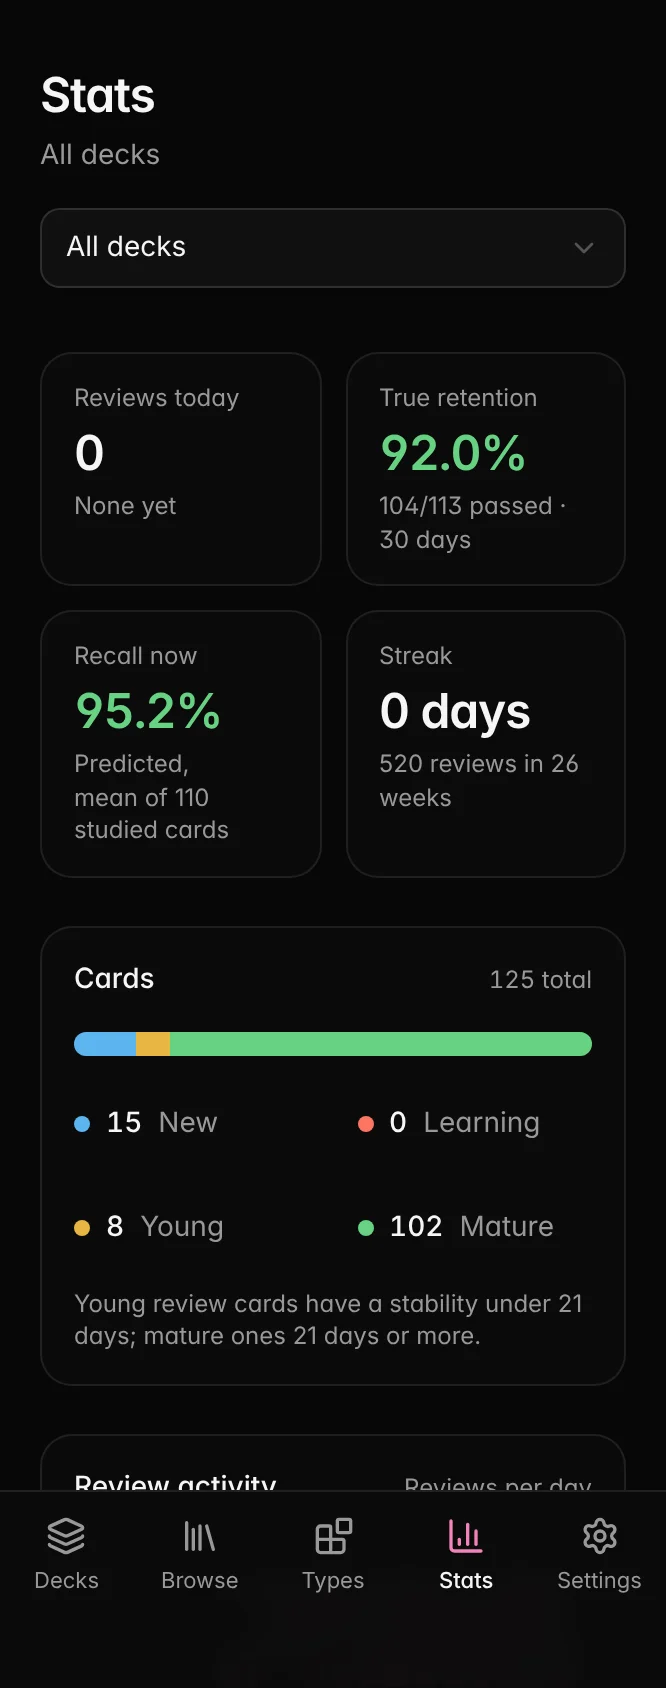
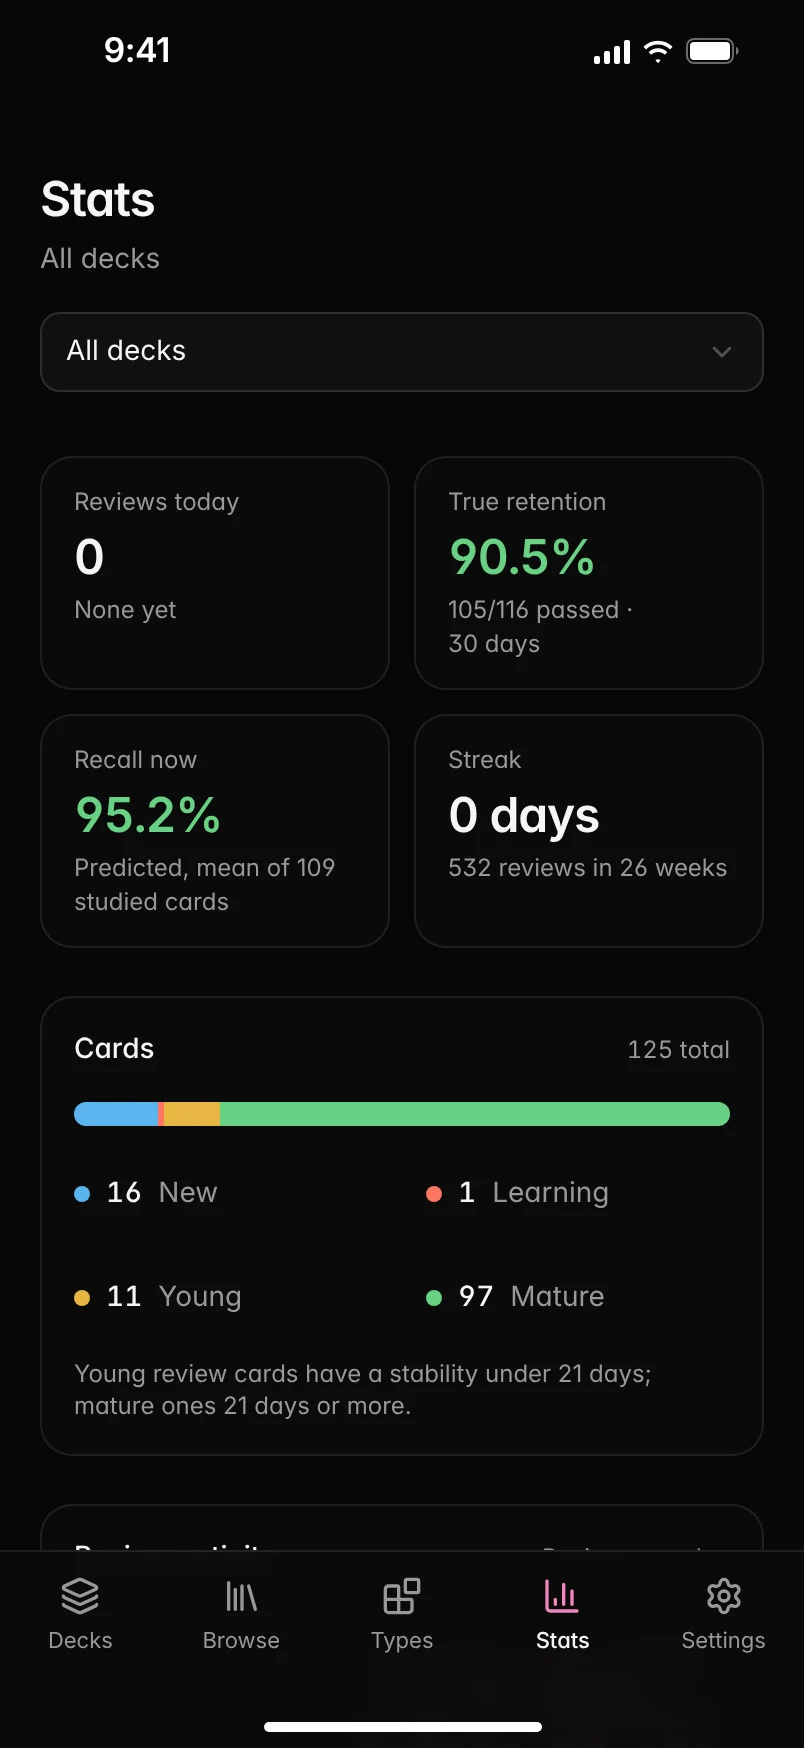
feat(site): phone mockups use Apple's iPhone 16 Pro bezel
Screens are captured at 402x874 with an iOS status bar and home indicator and sit in the bezel's real screen opening. Frame from Apple Design Resources; credit in site/src/assets/device/CREDITS.txt.

diff --git a/site/src/assets/site.css b/site/src/assets/site.css
@@ -661,3 +661,24 @@ h1, h2, h3 { margin: 0; letter-spacing: -0.025em; font-weight: 600; }
 .phone .screen img { width: 100%; height: auto; flex: none; object-fit: contain; }
 .phone.l .screen, .phone.r .screen { padding-top: 13%; }
 .phone .screen img { flex: 1; min-height: 0; height: 100%; object-fit: cover; object-position: top center; }
+
+/* ---------------------------------------------------------- phones: Apple's iPhone 16 Pro bezel over real screenshots */
+.phones { perspective: none; align-items: flex-end; gap: clamp(1.25rem, 4vw, 3.5rem); padding-bottom: 2.5rem; position: relative; }
+.phones::before { content: ""; position: absolute; left: 50%; bottom: 0.5rem; width: 70%; height: 3rem; translate: -50% 0; border-radius: 50%;
+  background: radial-gradient(closest-side, oklch(0 0 0 / 90%), transparent); filter: blur(12px); z-index: -1; }
+.phone, .phone.l, .phone.r, .phone.c { transform: none; padding: 0; background: none; box-shadow: none; border-radius: 0; }
+.phone::before, .phone::after { content: none; display: none; }
+.phone { --w: clamp(10rem, 21vw, 15rem); width: var(--w); aspect-ratio: 1406 / 2822; position: relative; flex: none;
+  filter: drop-shadow(0 40px 40px oklch(0 0 0 / 70%)) drop-shadow(0 12px 18px oklch(0 0 0 / 55%)); }
+.phone.c { --w: clamp(12rem, 25vw, 18rem); z-index: 1; }
+.phone.l, .phone.r { margin-bottom: 1.25rem; }
+.phone.l .screen, .phone.r .screen { filter: brightness(0.86); }
+.phone .screen { position: absolute; left: 7.255%; top: 3.544%; width: 85.775%; height: 92.913%; object-fit: cover; object-position: top center;
+  border-radius: 14% / 6.5%; aspect-ratio: auto; display: block; }
+.phone .screen, .phone.l .screen, .phone.r .screen { padding: 0 !important; background: #000; box-shadow: none; flex: none; min-height: 0; }
+.phone .screen::after { content: none; }
+.phone .frame { position: absolute; inset: 0; width: 100%; height: 100%; pointer-events: none; }
+@media (max-width: 520px) { .phone.l, .phone.r { display: none; } .phone.c { --w: min(16.5rem, 74vw); } }
+.phones { padding-bottom: 1rem; margin-top: 4rem; }
+.phones::after { content: ""; position: absolute; left: 50%; top: 40%; width: 60%; height: 50%; translate: -50% -50%; z-index: -2; border-radius: 50%;
+  background: radial-gradient(closest-side, color-mix(in oklab, var(--highlight) 10%, transparent), transparent); filter: blur(20px); pointer-events: none; }

diff --git a/site/src/index.html b/site/src/index.html
@@ -305,9 +305,9 @@
       <p class="shot-caption" data-shot-caption></p>
     </div>
     <div class="phones" data-reveal>
-      <div class="phone l"><div class="screen"><img src="assets/shots/phone-decks.webp" alt="Decks on a phone" loading="lazy" width="780" height="1688"></div></div>
-      <div class="phone c"><div class="screen"><img src="assets/shots/phone-chess.webp" alt="A chess card on a phone" loading="lazy" width="780" height="1688"></div></div>
-      <div class="phone r"><div class="screen"><img src="assets/shots/phone-stats.webp" alt="Stats on a phone" loading="lazy" width="780" height="1688"></div></div>
+      <div class="phone l"><img class="screen" src="assets/shots/phone-decks.webp" alt="Decks on a phone" loading="lazy" width="804" height="1748"><img class="frame" src="assets/device/iphone-16-pro-black-titanium.webp" alt="" aria-hidden="true"></div>
+      <div class="phone c"><img class="screen" src="assets/shots/phone-chess.webp" alt="A chess card on a phone" loading="lazy" width="804" height="1748"><img class="frame" src="assets/device/iphone-16-pro-black-titanium.webp" alt="" aria-hidden="true"></div>
+      <div class="phone r"><img class="screen" src="assets/shots/phone-stats.webp" alt="Stats on a phone" loading="lazy" width="804" height="1748"><img class="frame" src="assets/device/iphone-16-pro-black-titanium.webp" alt="" aria-hidden="true"></div>
     </div>
   </div>
 </section>
